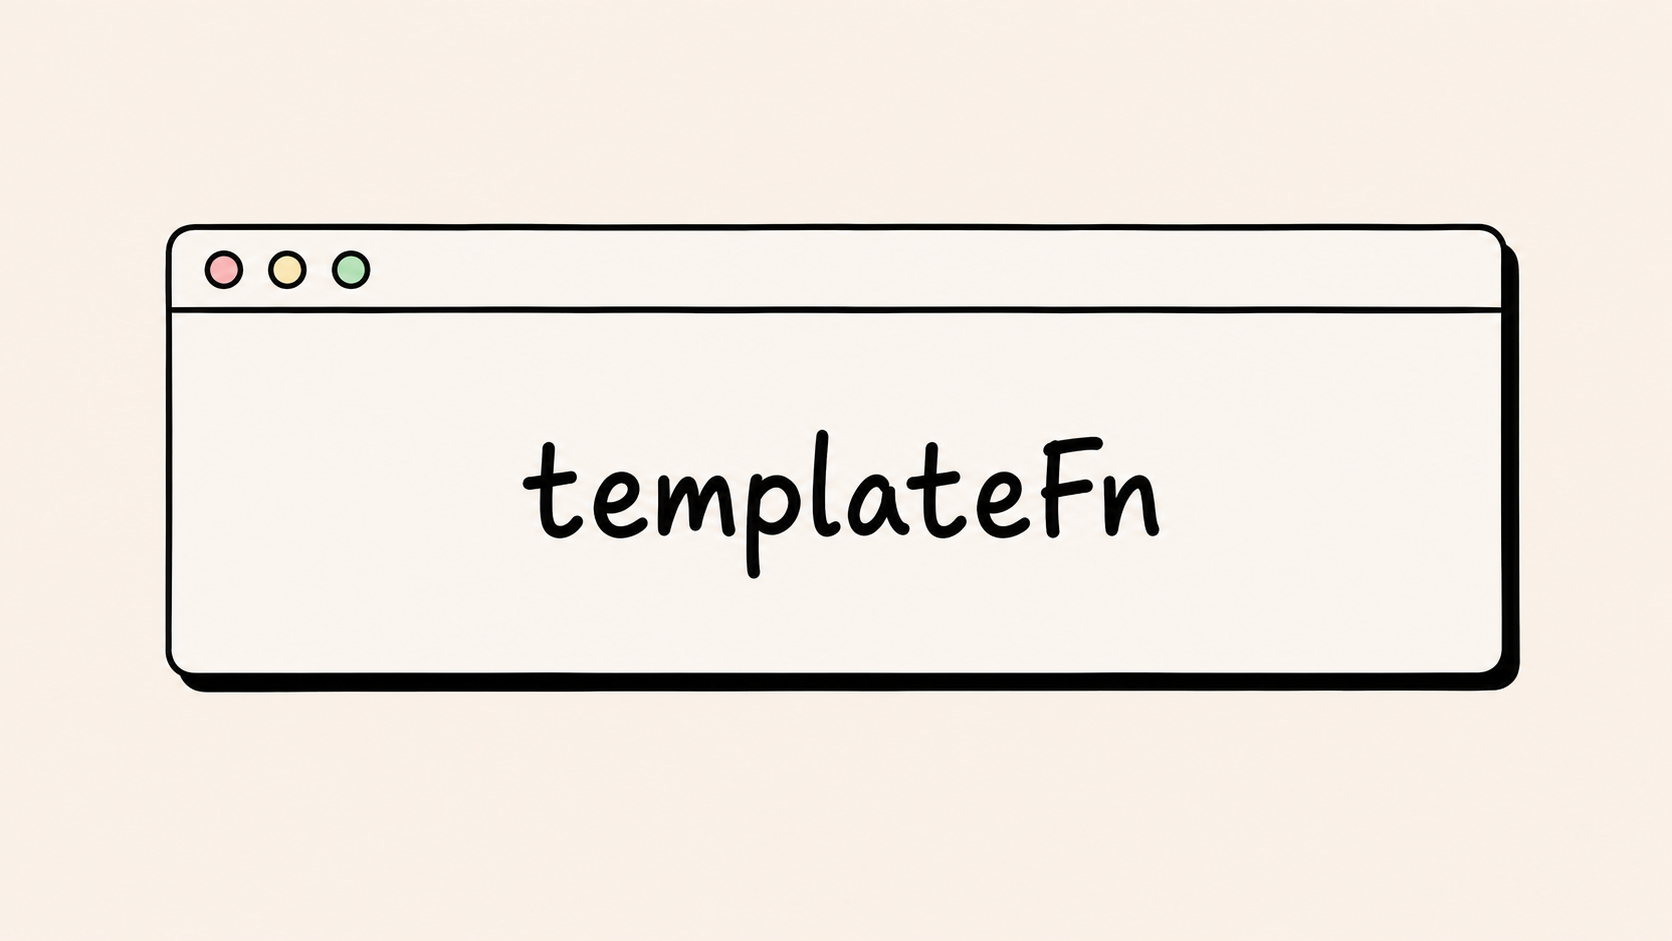
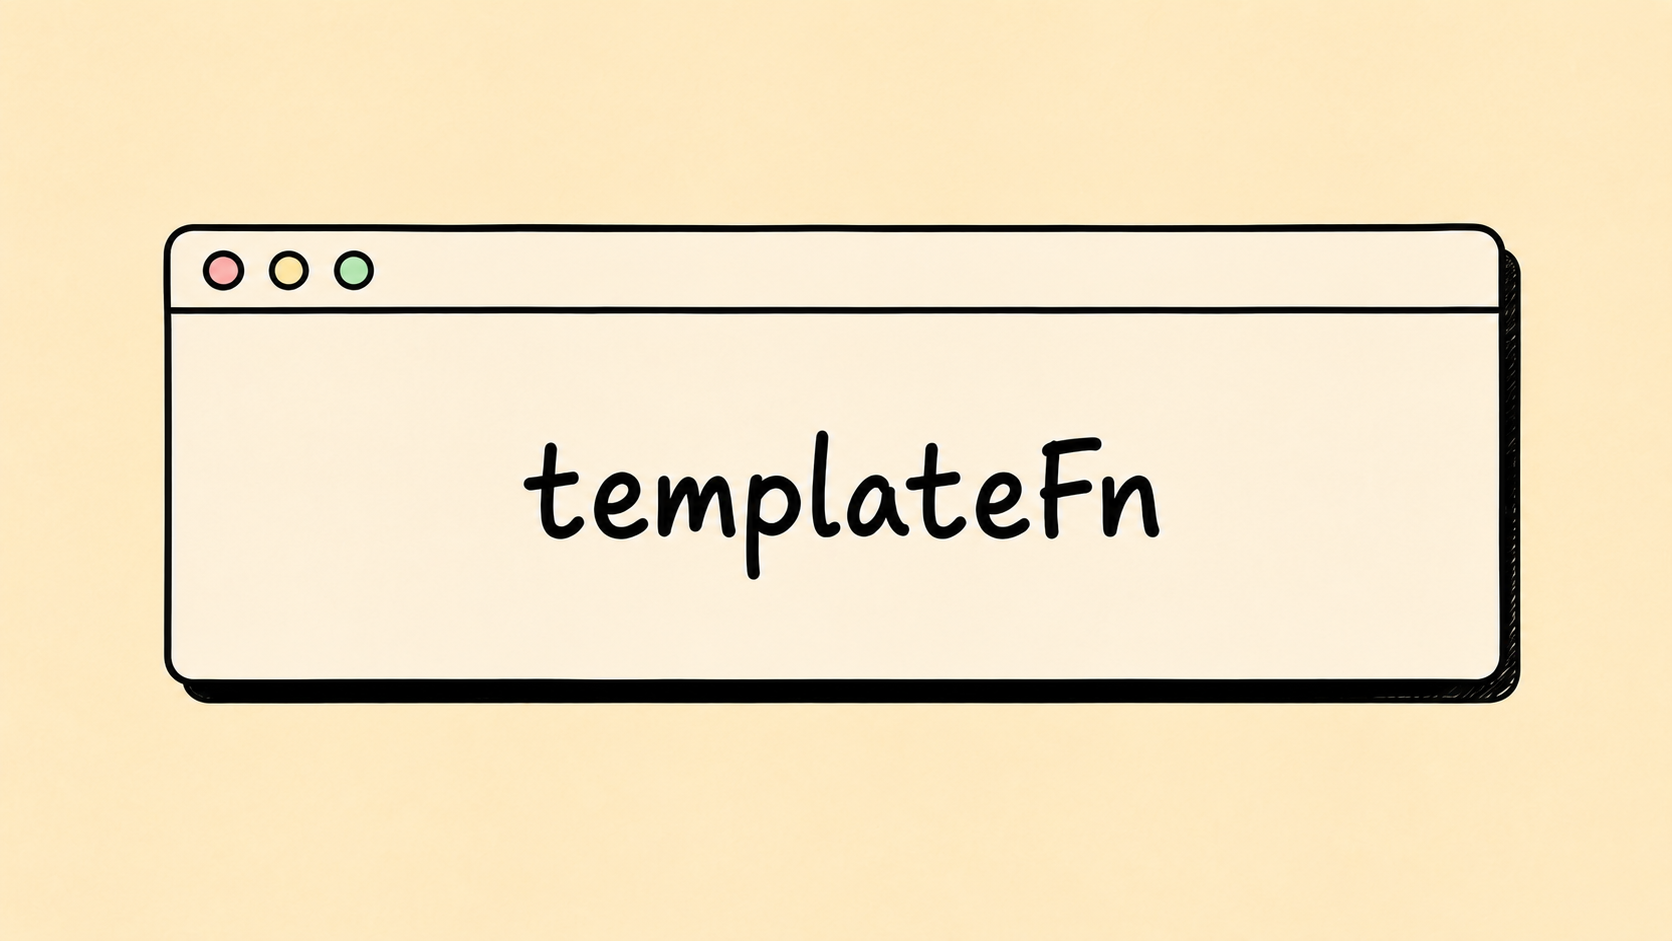
feat: add new slides for change detection and template compiler

diff --git a/src/app/slides.ts b/src/app/slides.ts
@@ -16,7 +16,9 @@ export const SLIDES: Slide[] = [
   { slug: 'zonejs-let-me-call-angular-for-you', title: 'Zone.js: Let Me Call Angular For You', image: 'zonejs-let-me-call-angular-for-you.png' },
   { slug: 'from-something-happened-to-tick', title: 'From "Something Happened" to tick()', image: 'from-something-happened-to-tick.png' },
   { slug: 'tick-walks-the-component-tree', title: 'tick() Walks the Component Tree', image: 'tick-walks-the-component-tree.png' },
+  { slug: 'how-does-angular-perform-change-detection', title: 'How Does Angular Perform Change Detection?', image: 'how-does-angular-perform-change-detection-for-a-component.png' },
   { slug: 'templateFn', title: 'Template Functions', image: 'templateFn.png' },
+  { slug: 'template-compiler', title: 'Template Compiler', image: 'template-compiler.png' },
   { slug: 'every-binding-has-memory', title: 'Every Binding Has Memory', image: 'every-binding-has-memory.png' },
   { slug: 'the-binding-check', title: 'The Binding Check', image: 'the-binding-check.png' },
   { slug: 'dev-mode-double-check-stability', title: 'Dev Mode Double Checks Stability', image: 'dev-mode-double-check-stability.png' },